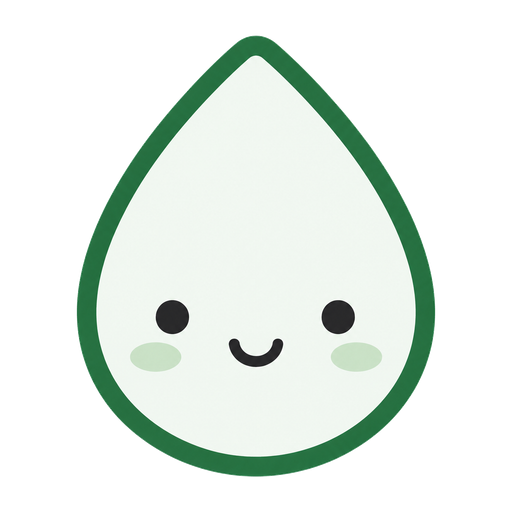
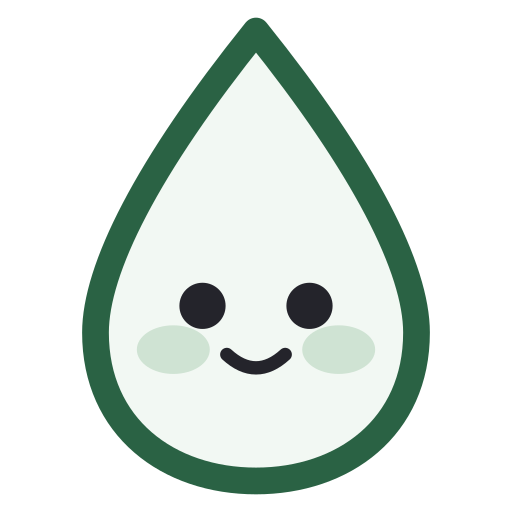
メインマスコットをクラミンちゃん(SVG3ポーズ)へ差し替え
- kuramin-normal / research / matome / mark の4SVGを新規作成(PNG版の造形を再現)
- ネヴォミンちゃんの参照(トップ挨拶・ヒーロー右下・Pinterestピンの既定・
  構造化データのコメント)をすべてクラミンちゃんへ変更し、未使用SVGを削除
- ロゴ・ファビコン一式をSVGから書き出す scripts/generate-brand-assets.js を新設し、
  logo/logo-mark/favicon.ico/favicon-16,32,48/icon-192,512/apple-touch-icon を再生成
- OGP画像もSVG版マスコットで再生成

Changed region(s): [[0.125, 0.0312, 0.875, 0.9688], [0.25, 0.5312, 0.75, 0.75]]

diff --git a/サイト運営/サイト本体/scripts/generate-brand-assets.js b/サイト運営/サイト本体/scripts/generate-brand-assets.js
@@ -1,0 +1,100 @@
+#!/usr/bin/env node
+/**
+ * ロゴ・ファビコン一式を、マスコットのSVGから書き出す。
+ *
+ *   node scripts/generate-brand-assets.js
+ *
+ * **SVGが正**(public/images/mascot/kuramin-normal.svg / kuramin-mark.svg)。
+ * PNG類はすべてこのスクリプトの出力物なので、直接編集しないこと。
+ * マスコットを描き替えたらSVGを更新して再実行する(OGPは scripts/generate-ogp.js)。
+ *
+ * 出力:
+ *   images/logo.png        512x512  全身(構造化データのorganization.logo)
+ *   images/logo-mark.png   128x128  簡略マーク(ヘッダーのロゴ横)
+ *   favicon-16/32/48.png            簡略マーク
+ *   favicon.ico                     上記3サイズをPNGとして内包(Vista以降の形式)
+ *   icon-192.png / icon-512.png     PWA用
+ *   apple-touch-icon.png   180x180  白地・不透明(iOSは透過を黒く塗るため)
+ */
+const fs = require("fs");
+const path = require("path");
+const sharp = require("sharp");
+
+const PUBLIC_DIR = path.join(__dirname, "..", "public");
+const FULL_SVG = path.join(PUBLIC_DIR, "images", "mascot", "kuramin-normal.svg");
+const MARK_SVG = path.join(PUBLIC_DIR, "images", "mascot", "kuramin-mark.svg");
+
+// SVGは240x240のviewBox。密度を上げて大きめにラスタライズしてから縮小する
+const DENSITY = 900;
+
+const out = (...p) => path.join(PUBLIC_DIR, ...p);
+
+async function render(svg, size) {
+  return sharp(svg, { density: DENSITY })
+    .resize(size, size, { fit: "contain", background: { r: 0, g: 0, b: 0, alpha: 0 } })
+    .png()
+    .toBuffer();
+}
+
+// PNGを内包するICO(Vista以降・全モダンブラウザ対応)を組み立てる
+function buildIco(entries) {
+  const header = Buffer.alloc(6);
+  header.writeUInt16LE(0, 0);
+  header.writeUInt16LE(1, 2);
+  header.writeUInt16LE(entries.length, 4);
+  const dir = Buffer.alloc(16 * entries.length);
+  let offset = 6 + 16 * entries.length;
+  entries.forEach(({ size, png }, i) => {
+    const e = dir.subarray(i * 16);
+    e.writeUInt8(size >= 256 ? 0 : size, 0);
+    e.writeUInt8(size >= 256 ? 0 : size, 1);
+    e.writeUInt16LE(1, 4);
+    e.writeUInt16LE(32, 6);
+    e.writeUInt32LE(png.length, 8);
+    e.writeUInt32LE(offset, 12);
+    offset += png.length;
+  });
+  return Buffer.concat([header, dir, ...entries.map((e) => e.png)]);
+}
+
+(async () => {
+  for (const svg of [FULL_SVG, MARK_SVG]) {
+    if (!fs.existsSync(svg)) {
+      console.error(`[NG] 元SVGが見つかりません: ${svg}`);
+      process.exit(1);
+    }
+  }
+
+  const written = [];
+  const write = async (buf, ...p) => {
+    fs.writeFileSync(out(...p), buf);
+    written.push(`${p.join("/")} (${(buf.length / 1024).toFixed(1)} KB)`);
+  };
+
+  await write(await render(FULL_SVG, 512), "images", "logo.png");
+  await write(await render(MARK_SVG, 128), "images", "logo-mark.png");
+  await write(await render(MARK_SVG, 192), "icon-192.png");
+  await write(await render(MARK_SVG, 512), "icon-512.png");
+
+  const icoEntries = [];
+  for (const size of [16, 32, 48]) {
+    const png = await render(MARK_SVG, size);
+    await write(png, `favicon-${size}.png`);
+    icoEntries.push({ size, png });
+  }
+  await write(buildIco(icoEntries), "favicon.ico");
+
+  // iOSは透過部分を黒く塗るため、apple-touch-iconだけ白地で焼き込む
+  const appleInner = await render(MARK_SVG, 158);
+  const apple = await sharp({
+    create: { width: 180, height: 180, channels: 4, background: "#ffffff" },
+  })
+    .composite([{ input: appleInner, left: 11, top: 11 }])
+    .png()
+    .toBuffer();
+  await write(apple, "apple-touch-icon.png");
+
+  console.log("書き出しました:");
+  written.forEach((w) => console.log("  " + w));
+  console.log("\nOGP画像は node scripts/generate-ogp.js で別途生成する");
+})();

diff --git a/サイト運営/サイト本体/lib/categoryMascot.js b/サイト運営/サイト本体/lib/categoryMascot.js
@@ -1,6 +1,6 @@
 // カテゴリ別のマスコットキャラクター設定。
-// NEVORA公式マスコット体系。大カテゴリ10種 + サイト全体のメインマスコット
-// 「ネヴォミンちゃん」で構成する。各キャラは normalImage(挨拶)/
+// NEVORA公式マスコット体系。大カテゴリ10種 + 生活サイトのメインマスコット
+// 「クラミンちゃん」で構成する。各キャラは normalImage(挨拶)/
 // researchImage(補足)/matomeImage(振り返り)の3ポーズを持つ。
 // 新ジャンル追加時はこのファイルに追記するだけで拡張できる設計を維持する。
 
@@ -194,18 +194,20 @@ const NEMUMIN = {
   ],
 };
 
-// サイト全体のメインマスコット。カテゴリを横断する案内・ホームページで使用する。
-export const NEVOMIN = {
-  name: "ネヴォミンちゃん",
-  normalImage: "/images/mascot/nevomin-normal.svg",
-  researchImage: "/images/mascot/nevomin-research.svg",
-  matomeImage: "/images/mascot/nevomin-matome.svg",
+// 生活サイトのメインマスコット。カテゴリを横断する案内・ホームページで使用する。
+// ロゴ・ファビコン(scripts/generate-brand-assets.js)とOGP(scripts/generate-ogp.js)も
+// 同じSVGから書き出しているため、絵を変えるときは kuramin-*.svg を直して両方を再実行する。
+export const KURAMIN = {
+  name: "クラミンちゃん",
+  normalImage: "/images/mascot/kuramin-normal.svg",
+  researchImage: "/images/mascot/kuramin-research.svg",
+  matomeImage: "/images/mascot/kuramin-matome.svg",
   comments: [
     "気になるテーマは、カテゴリからも探せるよ。",
     "迷ったときは、担当のミンたちに聞いてみてね。",
   ],
   introComments: [
-    "こんにちは、ネヴォミンです。NEVORAへようこそ。",
+    "こんにちは、クラミンです。NEVORAへようこそ。",
     "ようこそ、NEVORAへ。ここでは色んな「ミン」たちが案内役をしていますよ。",
   ],
   outroComments: [
@@ -214,7 +216,7 @@ export const NEVOMIN = {
   ],
   // ホームページ冒頭専用の自己紹介コメント(トップページのみで使用)。
   homeComment:
-    "はじめまして、ネヴォミンだよ!このサイトでは毎日の暮らしに役立つ情報を、カテゴリー担当のなかまたちと一緒に紹介しているよ。気になるジャンルから読んでみてね。",
+    "はじめまして、クラミンだよ!このサイトでは毎日の暮らしに役立つ情報を、カテゴリー担当のなかまたちと一緒に紹介しているよ。気になるジャンルから読んでみてね。",
 };
 
 const CATEGORY_MASCOTS = {

diff --git a/サイト運営/サイト本体/pages/index.js b/サイト運営/サイト本体/pages/index.js
@@ -10,7 +10,7 @@ import NewPostsCarousel from "../components/NewPostsCarousel";
 import SectionBand from "../components/SectionBand";
 import { getAllPostsMeta, getAllMajorCategories } from "../lib/posts";
 import { getCategoryMeta } from "../lib/categoryMeta";
-import { getCategoryMascot, NEVOMIN } from "../lib/categoryMascot";
+import { getCategoryMascot, KURAMIN } from "../lib/categoryMascot";
 import Link from "next/link";
 
 // 「人気カテゴリー」として常時表示する3カテゴリ(残りはアコーディオンで展開)。
@@ -131,16 +131,16 @@ export default function Home({
           <div className="container container--wide">
             <div className="mascot-comment mascot-comment-home">
               <img
-                src={NEVOMIN.normalImage}
-                alt={NEVOMIN.name}
+                src={KURAMIN.normalImage}
+                alt={KURAMIN.name}
                 width={64}
                 height={64}
                 className="mascot-comment-img"
                 loading="lazy"
               />
               <div className="mascot-comment-bubble">
-                <span className="mascot-comment-name">{NEVOMIN.name}</span>
-                <p className="mascot-comment-text">{NEVOMIN.homeComment}</p>
+                <span className="mascot-comment-name">{KURAMIN.name}</span>
+                <p className="mascot-comment-text">{KURAMIN.homeComment}</p>
               </div>
             </div>
           </div>

diff --git a/サイト運営/サイト本体/lib/structuredData.js b/サイト運営/サイト本体/lib/structuredData.js
@@ -8,7 +8,7 @@ export const SITE_NAME = "生活を豊かにする総合ガイド｜NEVORA";
 export const AUTHOR_NAME = "眞井 虹輝";
 
 // サイトの正式なロゴ画像は現状用意されていないため、サイト全体のメイン
-// マスコット「ネヴォミンちゃん」(public/images/mascot/nevomin-normal.svg)を
+// マスコット「クラミンちゃん」(public/images/mascot/kuramin-normal.svg)を
 // 512×512pxのPNGとして書き出したものを暫定のロゴとして使う
 // (Googleの推奨最小サイズ112×112pxを満たす。2026-08-09生成)。
 export const LOGO_PATH = "/images/logo.png";

diff --git a/サイト運営/サイト本体/components/HeroBanner.js b/サイト運営/サイト本体/components/HeroBanner.js
@@ -33,13 +33,13 @@ export default function HeroBanner() {
       </div>
       <div className="hero-banner-mascot">
         <img
-          src="/images/mascot/nevomin-normal.svg"
-          alt="NEVORA公式マスコット ネヴォミンちゃん"
+          src="/images/mascot/kuramin-normal.svg"
+          alt="NEVORA公式マスコット クラミンちゃん"
           width={72}
           height={72}
           loading="eager"
         />
-        <span className="hero-banner-mascot-name">ネヴォミン</span>
+        <span className="hero-banner-mascot-name">クラミン</span>
       </div>
     </section>
   );

diff --git a/サイト運営/サイト本体/pages/_document.js b/サイト運営/サイト本体/pages/_document.js
@@ -13,7 +13,7 @@ export default function Document() {
   return (
     <Html lang="ja">
       <Head>
-        {/* ファビコン/アプリアイコンは2026-08-23に公式マスコット(ネヴォミン)の
+        {/* ファビコン/アプリアイコンは2026-08-23に公式マスコット(クラミン)の
             デザインへ差し替え。旧SVG(/images/favicon.svg)はSVG対応ブラウザで
             PNGより優先されてしまい新デザインが出ないため、リンクを外している。 */}
         {/* 高級感のあるトーンへ振るためのWebフォント(2026-08-27, design-luxury)。

diff --git a/サイト運営/サイト本体/scripts/generate-ogp.js b/サイト運営/サイト本体/scripts/generate-ogp.js
@@ -16,7 +16,7 @@ const OUT = path.join(__dirname, "..", "public", "images", "ogp.png");
 const MASCOT_DIR = path.join(__dirname, "..", "public", "images", "mascot");
 
 // 中央に大きく置くメイン + 左右に小さく置くサブ(存在するファイルだけ使う)
-const MASCOTS = { main: "kuramin-normal.png", left: "karumin-normal.svg", right: "kiramin-normal.svg" };
+const MASCOTS = { main: "kuramin-normal.svg", left: "karumin-normal.svg", right: "kiramin-normal.svg" };
 
 // styles/globals.css の :root と対応
 const COLOR = {

diff --git a/サイト運営/サイト本体/scripts/generate-pinterest-pins.js b/サイト運営/サイト本体/scripts/generate-pinterest-pins.js
@@ -65,7 +65,7 @@ const MASCOT_BY_CATEGORY = {
   "暮らしの知恵": { file: "manamin", name: "マナミン" },
   "睡眠・休息": { file: "nemumin", name: "ネムミン" },
   // カテゴリ未登録記事のフォールバック
-  "default": { file: "nevomin", name: "ネヴォミン" },
+  "default": { file: "kuramin", name: "クラミン" },
 };
 
 // --sample で使う既定の3記事(異なるカテゴリ)。記事を追加したらここを更新する。
